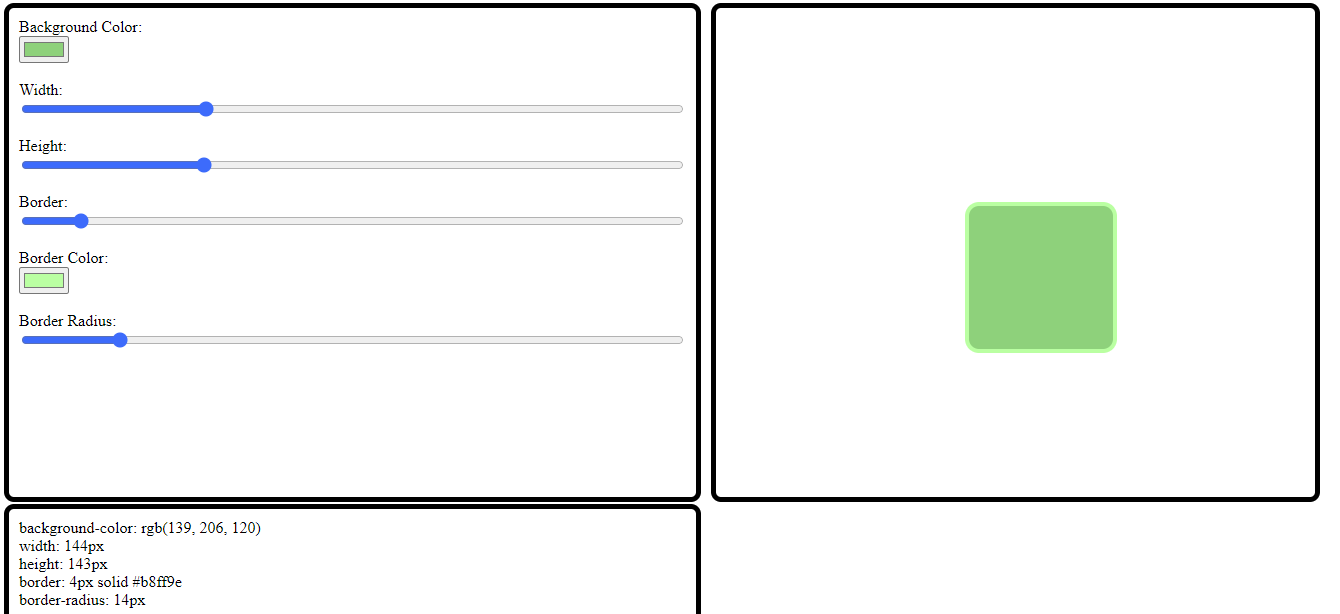
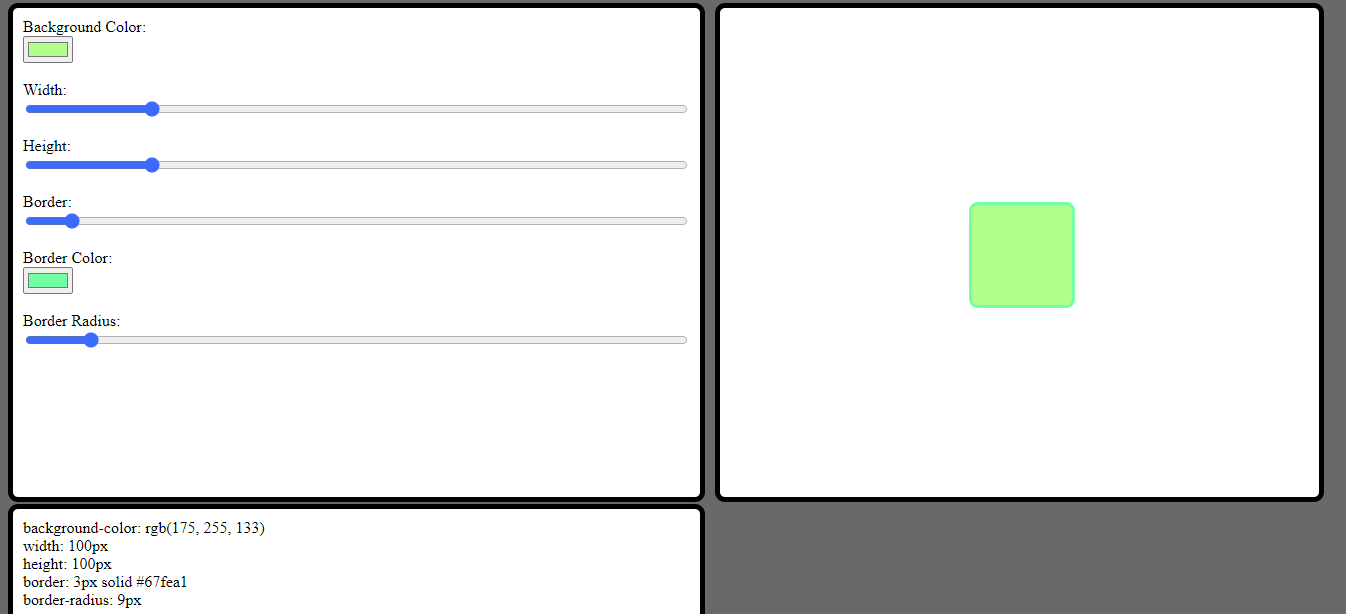
change background color

diff --git a/style.css b/style.css
@@ -1,3 +1,6 @@
+body {
+    background-color: dimgray;
+}
 .element { 
     width: 100px;
     height: 100px;
@@ -19,6 +22,7 @@
     height: calc(80% - 28px);
     border: 5px solid black;
     border-radius: 10px;
+    background-color: white;
 }
 .demonstration {
     position: absolute;
@@ -27,6 +31,7 @@
     left: 53%;
     width: calc(45% - 8px);
     height: calc(80% - 8px);
+    background-color: white;
 }
 .code {
     padding: 10px;
@@ -36,4 +41,5 @@
     width: calc(50% - 8px);
     height: 80%;
     top: 82%;
+    background-color: white;
 }
